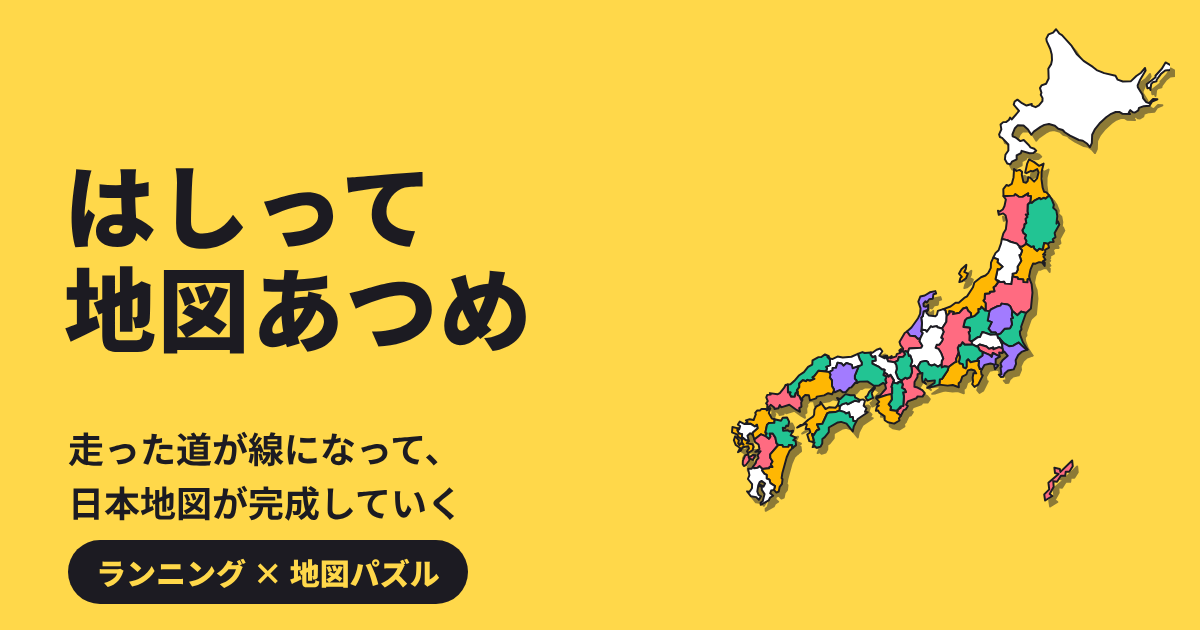
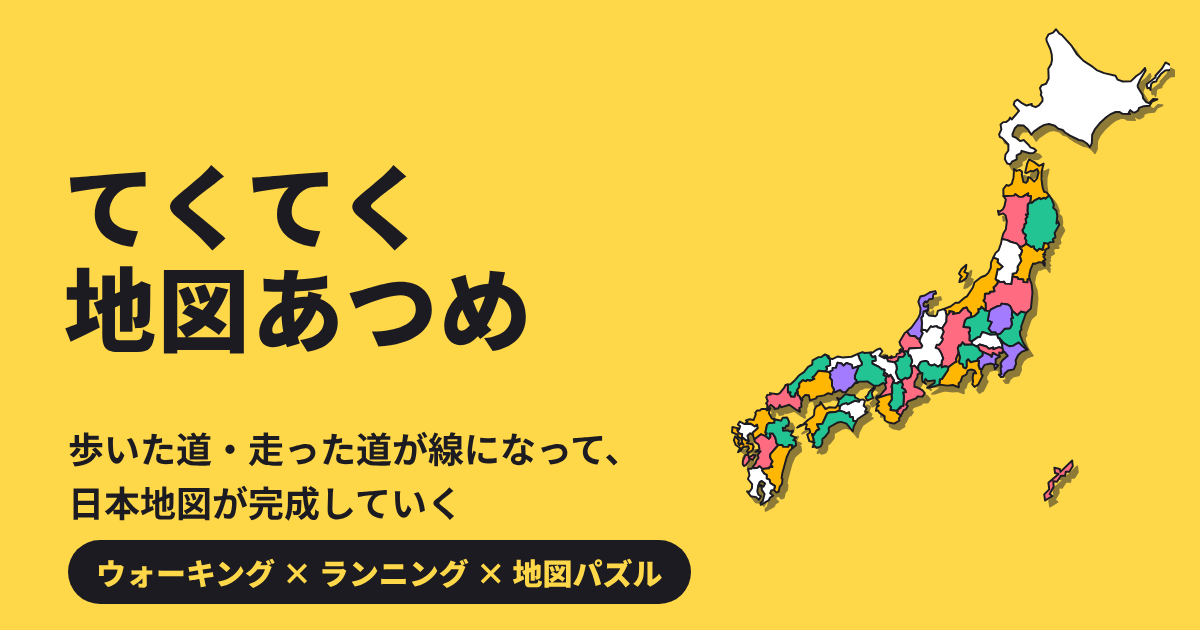
アプリ名を「てくてく地図あつめ」に変更(歩く・走るの両方に対応)
Claude-Session: https://claude.ai/code/session_01ThW6ifGmCkXFBkFTf95PGk

diff --git a/index.html b/index.html
@@ -8,27 +8,27 @@
 <link rel="icon" type="image/png" sizes="192x192" href="icons/icon-192.png">
 <link rel="apple-touch-icon" href="icons/apple-touch-icon.png">
 <meta name="apple-mobile-web-app-capable" content="yes"><meta name="mobile-web-app-capable" content="yes">
-<meta name="apple-mobile-web-app-title" content="地図あつめ"><meta name="apple-mobile-web-app-status-bar-style" content="default">
+<meta name="apple-mobile-web-app-title" content="てくてく地図"><meta name="apple-mobile-web-app-status-bar-style" content="default">
 <meta name="format-detection" content="telephone=no">
-<meta name="description" content="走った道が線になって、地図のピースが埋まっていく。県や国の形を走って、日本地図・世界地図を完成させよう。">
-<meta property="og:type" content="website"><meta property="og:site_name" content="はしって地図あつめ">
-<meta property="og:title" content="はしって地図あつめ — 走って日本地図を完成させよう">
-<meta property="og:description" content="走った道が線になって、地図のピースが埋まっていく。県や国の形のコースを自動で作ります。">
+<meta name="description" content="歩いた道・走った道が線になって、地図のピースが埋まっていく。県や国の形を歩いて・走って、日本地図・世界地図を完成させよう。">
+<meta property="og:type" content="website"><meta property="og:site_name" content="てくてく地図あつめ">
+<meta property="og:title" content="てくてく地図あつめ — 歩いて・走って日本地図を完成させよう">
+<meta property="og:description" content="歩いた道・走った道が線になって、地図のピースが埋まっていく。県や国の形のコースを自動で作ります。">
 <meta property="og:url" content="https://af22091.github.io/hashitte-chizu/">
 <meta property="og:image" content="https://af22091.github.io/hashitte-chizu/ogp.png"><meta property="og:image:width" content="1200"><meta property="og:image:height" content="630">
-<meta name="twitter:card" content="summary_large_image"><meta name="twitter:title" content="はしって地図あつめ"><meta name="twitter:description" content="走った道が線になって、日本地図が完成していく。">
+<meta name="twitter:card" content="summary_large_image"><meta name="twitter:title" content="てくてく地図あつめ"><meta name="twitter:description" content="歩いた道が線になって、日本地図が完成していく。">
 <meta name="twitter:image" content="https://af22091.github.io/hashitte-chizu/ogp.png">
-<title>はしって地図あつめ</title>
+<title>てくてく地図あつめ</title>
 <link rel="preconnect" href="https://fonts.googleapis.com"><link rel="preconnect" href="https://fonts.gstatic.com" crossorigin>
 <link rel="stylesheet" href="https://fonts.googleapis.com/css2?family=Zen+Maru+Gothic:wght@500;700;900&display=swap">
 <link rel="stylesheet" href="lib/leaflet/leaflet.css">
 <link rel="stylesheet" href="lib/maplibre/maplibre-gl.css">
-<link rel="stylesheet" href="css/style.css?v=20261124b">
+<link rel="stylesheet" href="css/style.css?v=20261124c">
 </head>
 <body>
 <header id="top">
   <button id="btn-home" class="icon" aria-label="モード選択へ" title="モード選択へ" hidden>◀</button>
-  <h1>はしって地図あつめ</h1>
+  <h1>てくてく地図あつめ</h1>
   <button id="btn-music" class="icon" aria-label="音楽のオン・オフ" title="音楽">♪</button>
   <div id="counter" title="完成した数" hidden><b id="count-done">0</b> / <span id="count-total">47</span></div>
   <button id="btn-settings" class="icon" aria-label="設定" title="設定"><svg class="ico" viewBox="0 0 24 24" aria-hidden="true"><circle cx="12" cy="12" r="8.6" fill="none" stroke="currentColor" stroke-width="3.6" stroke-dasharray="3.37 3.37"/><circle cx="12" cy="12" r="6.2" fill="none" stroke="currentColor" stroke-width="2.4"/><circle cx="12" cy="12" r="2.4" fill="currentColor"/></svg></button>
@@ -46,7 +46,7 @@
   <!-- 0. モード選択 -->
   <section id="screen-home" class="screen active">
     <h2 class="home-lead">どの地図を走る？</h2>
-    <p class="home-sub">走った道が線になって、地図のピースが埋まっていきます。</p>
+    <p class="home-sub">歩いた道・走った道が線になって、地図のピースが埋まっていきます。</p>
     <div id="home-cards"><div class="skel-card"></div><div class="skel-card"></div></div>
     <div class="home-quick"><button id="home-list" type="button"><svg class="ico" viewBox="0 0 24 24" aria-hidden="true"><g fill="currentColor"><rect x="3" y="4.5" width="4" height="4" rx="1"/><rect x="3" y="10" width="4" height="4" rx="1"/><rect x="3" y="15.5" width="4" height="4" rx="1"/></g><g stroke="currentColor" stroke-width="2.4" stroke-linecap="round"><path d="M10.5 6.5H21"/><path d="M10.5 12H21"/><path d="M10.5 17.5H17"/></g></svg><span>きろく</span><small id="home-stat"></small></button><button id="home-help" type="button">使い方・注意</button></div>
   </section>
@@ -193,21 +193,21 @@ window.addEventListener('error', function (e) {
 </script>
 <script>
 if ('serviceWorker' in navigator && (location.protocol === 'https:' || location.hostname === 'localhost') && (!navigator.webdriver || /sw=1/.test(location.search))) {
-  window.addEventListener('load', () => { navigator.serviceWorker.register('sw.js?v=20261124b').catch(() => { /* 非対応・失敗: 通常のWebとして動く */ }); });
+  window.addEventListener('load', () => { navigator.serviceWorker.register('sw.js?v=20261124c').catch(() => { /* 非対応・失敗: 通常のWebとして動く */ }); });
 }
 </script>
 <script src="lib/leaflet/leaflet.js"></script>
 <script src="lib/maplibre/maplibre-gl.js"></script>
 <script src="lib/maplibre/leaflet-maplibre-gl.js"></script>
-<script src="js/i18n.js?v=20261124b"></script>
-<script src="js/theme.js?v=20261124b"></script>
-<script src="js/music.js?v=20261124b"></script>
-<script src="js/trivia.js?v=20261124b"></script>
-<script src="js/game.js?v=20261124b"></script>
-<script src="data/embedded.js?v=20261124b"></script>
-<script src="js/route.js?v=20261124b"></script>
-<script src="js/fx.js?v=20261124b"></script>
-<script src="js/kbd.js?v=20261124b"></script>
-<script src="js/app.js?v=20261124b"></script>
+<script src="js/i18n.js?v=20261124c"></script>
+<script src="js/theme.js?v=20261124c"></script>
+<script src="js/music.js?v=20261124c"></script>
+<script src="js/trivia.js?v=20261124c"></script>
+<script src="js/game.js?v=20261124c"></script>
+<script src="data/embedded.js?v=20261124c"></script>
+<script src="js/route.js?v=20261124c"></script>
+<script src="js/fx.js?v=20261124c"></script>
+<script src="js/kbd.js?v=20261124c"></script>
+<script src="js/app.js?v=20261124c"></script>
 </body>
 </html>

diff --git a/js/app.js b/js/app.js
@@ -1,4 +1,4 @@
-/* はしって日本地図 — 画面とアプリの流れ */
+/* てくてく日本地図 — 画面とアプリの流れ */
 (() => {
   'use strict';
   const RE = window.RouteEngine;
@@ -35,9 +35,9 @@
 
   /* ---------- モード(日本 / 世界) ---------- */
   const MODES = {
-    jp: { key: 'jp', title: 'はしって日本地図', home: '日本', file: 'data/prefectures.json', runs: 'runs', unit: '県', font: 8.5,
+    jp: { key: 'jp', title: 'てくてく日本地図', home: '日本', file: 'data/prefectures.json', runs: 'runs', unit: '県', font: 8.5,
       hint: '走りたい県をタップ。ピンチで拡大もできます', searchPh: '県の名前で探す' },
-    world: { key: 'world', title: 'はしって世界地図', home: '世界', file: 'data/world.json', runs: 'worldRuns', unit: '国', font: 7,
+    world: { key: 'world', title: 'てくてく世界地図', home: '世界', file: 'data/world.json', runs: 'worldRuns', unit: '国', font: 7,
       hint: '走りたい国をタップ。ピンチで拡大・検索もできます', searchPh: '国の名前で探す(日本語・英語)' },
   };
   const MAX_SIZE_M = 3000;                                 // 細長い国で拡大しても、道路取得が重くならない上限
@@ -370,7 +370,7 @@
     { const sc = $('#screen-' + name); if (sc) { if (name === 'map') FX.reveal(sc); else sc.classList.remove('enter'), void sc.offsetWidth, sc.classList.add('enter'); } }
     if (name !== 'map') Music.scene('calm');
     $('#counter').hidden = name === 'home';
-    if (name === 'home') { $('#top h1').textContent = 'はしって地図あつめ'; document.title = 'はしって地図あつめ'; }
+    if (name === 'home') { $('#top h1').textContent = 'てくてく地図あつめ'; document.title = 'てくてく地図あつめ'; }
   }
   function ensureMap() {
     if (map) return;
@@ -1115,7 +1115,7 @@
     rr(86, 96, 920, 780, 48); c.fillStyle = 'rgba(28,27,34,.55)'; c.fill();
     rr(70, 80, 920, 780, 48); c.fillStyle = '#fff'; c.fill(); c.lineWidth = 8; c.strokeStyle = INK; c.stroke();
     c.textAlign = 'center'; c.fillStyle = INK; c.font = `900 66px ${F}`;
-    c.fillText(en ? `${p.name} done!` : `${p.name}を走りました！`, W / 2 - 10, 190);
+    c.fillText(en ? `${p.name} done!` : `${p.name}を歩いて・走りました！`, W / 2 - 10, 190);
     // 走った道(線)
     const all = r.trail.concat(r.planned || []), lat0 = all.reduce((q, t) => q + t[0], 0) / all.length, lon0 = all.reduce((q, t) => q + t[1], 0) / all.length;
     const loc = pts => pts.map(t => RE.toLocal(t[0], t[1], lat0, lon0)), A = loc(r.trail), B = r.planned ? loc(r.planned) : [];
@@ -1130,7 +1130,7 @@
     c.fillText(`${fmtKm(r.distanceM)}　${fmtTime(r.durationS)}`, W / 2 - 10, 800);
     const total = mk === 'jp' ? 47 : 175, nDone = Object.keys(runsOf(mk)).length;
     c.font = `900 54px ${F}`; c.fillText((mk === 'jp' ? (en ? 'Japan' : '日本地図') : (en ? 'World' : '世界地図')) + `　${nDone} / ${total}`, W / 2, 940);
-    c.font = `700 40px ${F}`; c.fillText('#はしって地図あつめ', W / 2, 1000); c.font = `700 30px ${F}`; c.fillText(SITE_URL.replace('https://', ''), W / 2, 1044);
+    c.font = `700 40px ${F}`; c.fillText('#てくてく地図あつめ', W / 2, 1000); c.font = `700 30px ${F}`; c.fillText(SITE_URL.replace('https://', ''), W / 2, 1044);
     return cv;
   }
   async function shareRun(id, mk) {
@@ -1139,7 +1139,7 @@
     const cv = shareCanvas(id, mk), blob = await new Promise(r => cv.toBlob(r, 'image/png'));
     if (!blob) return toast('画像を作れませんでした');
     const file = new File([blob], 'hashitte-chizu.png', { type: 'image/png' });
-    const text = en ? `I ran ${p.name}! #HashitteChizu` : `${p.name}を走って完成させました！ #はしって地図あつめ`;
+    const text = en ? `I ran ${p.name}! #TekutekuMaps` : `${p.name}を歩いて・走って完成させました！ #てくてく地図あつめ`;
     try {
       if (navigator.canShare && navigator.canShare({ files: [file] })) { await navigator.share({ files: [file], text, url: SITE_URL }); return; }
     } catch (e) { if (e && e.name === 'AbortError') return; /* 共有できない端末: 保存にきりかえ */ }
@@ -1256,7 +1256,7 @@
       `<h3>記録のデータ</h3><div class="set-row"><div class="set-l"><b>走った記録</b><small>${nm}件</small></div></div>` +
       `<div class="set-btns"><button id="set-list"><span>きろく</span></button><button id="set-export"><span>書き出す</span></button><button id="set-import"><span>読み込む</span></button></div>` +
       `<div class="set-btns"><button id="set-reset" class="danger">すべて消す</button></div>` +
-      `<h3>このアプリについて</h3><div class="set-about">はしって地図あつめ　バージョン ${APP_VER}<br>走った道をつないで、地図のピースを集めるアプリです。<br><br>` +
+      `<h3>このアプリについて</h3><div class="set-about">てくてく地図あつめ　バージョン ${APP_VER}<br>走った道をつないで、地図のピースを集めるアプリです。<br><br>` +
       `位置情報は、コース作りと走行の記録のためだけに使い、この端末の外へは保存しません（地図と道路データの取得のために、場所の周辺の範囲を地図サービスへ送ります）。記録はこの端末のブラウザの中だけに保存されます。<br><br>` +
       `地図データ © OpenStreetMap contributors ／ 航空写真 © Esri, Maxar, Earthstar Geographics ／ 地名 Nominatim ／ 3D地図 OpenFreeMap・MapLibre</div></div>`;
     $('#modal').hidden = false;

diff --git a/js/i18n.js b/js/i18n.js
@@ -17,8 +17,8 @@
 
   const EXACT = {
     // ---- 画面の見出し・ボタン ----
-    'はしって地図あつめ': 'Run & Collect Maps', 'はしって日本地図': 'Run Japan', 'はしって世界地図': 'Run the World',
-    'どの地図を走る？': 'Which map will you run?', '走った道が線になって、地図のピースが埋まっていきます。': 'Your run becomes a line, and the map pieces fill in.',
+    'てくてく地図あつめ': 'Tekuteku Maps', 'てくてく日本地図': 'Tekuteku Japan', 'てくてく世界地図': 'Tekuteku World',
+    'どの地図を走る？': 'Which map will you run?', '歩いた道・走った道が線になって、地図のピースが埋まっていきます。': 'Your walk or run becomes a line, and the map pieces fill in.',
     '日本': 'Japan', '世界': 'World', '日本地図': 'Japan map', '世界地図': 'World map', '県': 'prefecture', '国': 'country',
     '設定': 'Settings', '記録一覧': 'Records', 'きろく': 'Records', '合計距離': 'Total distance', '走った回数': 'Runs', '連続日数': 'Day streak', '⚙ 設定': '⚙ Settings', '記録一覧（走った場所）': 'Records (where you ran)',
     '走りたい県をタップ。ピンチで拡大もできます': 'Tap a prefecture to run. Pinch to zoom.', '走りたい県をタップしてください': 'Tap a prefecture to run',
@@ -123,7 +123,7 @@
     [/^位置情報エラー: (.*)$/, (m, e) => `Location error: ${e}`],
     [/^現在地を取得できませんでした: (.*)$/, (m, e) => `Could not get your location: ${e}`],
     [/^読み込めませんでした: (.*)$/, (m, e) => `Could not import: ${e}`],
-    [/^はしって地図あつめ　バージョン (.+)$/, (m, v) => `Run & Collect Maps  v${v}`],
+    [/^てくてく地図あつめ　バージョン (.+)$/, (m, v) => `Tekuteku Maps  v${v}`],
     [/^(.*)。大きさを「小」にするか、道路の少ない場所で試すか、少し待ってからもう一度お試しください。「デモ」ならネットなしで動きます。$/, (m, e) => `${tr(e)}. Try size “S”, a place with more roads, or wait a bit and retry. “Demo” works without internet.`],
     [/^道路データを取得中…（(.+)）$/, (m, h) => `Fetching road data… (${h})`],
     [/^(\d+)秒で時間切れ$/, (m, s) => `timed out after ${s}s`],

diff --git a/tools/make_ogp.js b/tools/make_ogp.js
@@ -12,6 +12,6 @@ h1{position:absolute;left:64px;top:150px;margin:0;font-size:92px;line-height:1.1
 p{position:absolute;left:68px;top:420px;margin:0;font-size:36px;font-weight:700;line-height:1.5}
 .tag{position:absolute;left:68px;top:540px;background:#1c1b22;color:#ffd84a;border-radius:40px;padding:10px 28px;font-size:30px;font-weight:900}
 </style><svg class="map" viewBox="0 0 ${vw} ${vh}" xmlns="http://www.w3.org/2000/svg">${paths}</svg>
-<h1>はしって<br>地図あつめ</h1><p>走った道が線になって、<br>日本地図が完成していく</p><div class="tag">ランニング × 地図パズル</div>`;
+<h1>てくてく<br>地図あつめ</h1><p>歩いた道・走った道が線になって、<br>日本地図が完成していく</p><div class="tag">ウォーキング × ランニング × 地図パズル</div>`;
 (async () => { const b = await chromium.launch(); const pg = await b.newPage({ viewport: { width: 1200, height: 630 } });
   await pg.setContent(html); console.log(await pg.evaluate(() => { const s = document.querySelector('svg'); const r = s.getBoundingClientRect(); return [document.querySelectorAll('path').length, r.x, r.y, r.width, r.height, getComputedStyle(s).display]; })); await pg.waitForTimeout(500); await pg.screenshot({ path: path.join(__dirname, '..', 'ogp.png') }); await b.close(); })();

diff --git a/sw.js b/sw.js
@@ -1,4 +1,4 @@
-/* はしって地図あつめ: オフライン対応(Service Worker)
+/* てくてく地図あつめ: オフライン対応(Service Worker)
    - 自分のサイトのファイルは「まずネットから取る → だめなら保存したものを使う」ので、更新はすぐ反映され、電波がなくても起動できます。
    - 地図の画像や道路データなど、他サイトへの通信にはいっさい触れません。 */
 const VER = new URL(self.location.href).searchParams.get('v') || 'dev';

diff --git a/css/style.css b/css/style.css
@@ -1,4 +1,4 @@
-/* はしって地図あつめ — 見た目
+/* てくてく地図あつめ — 見た目
    方針: 海の青の上に、走った県だけが鮮やかに色づく。赤い線=これから走る道、という色の意味を全画面でそろえる。 */
 :root {
   --sea: #ffd84a; --sea-d: #f2b705; --ink: #1c1b22; --ink2: #44414d; --muted: #75717f;
